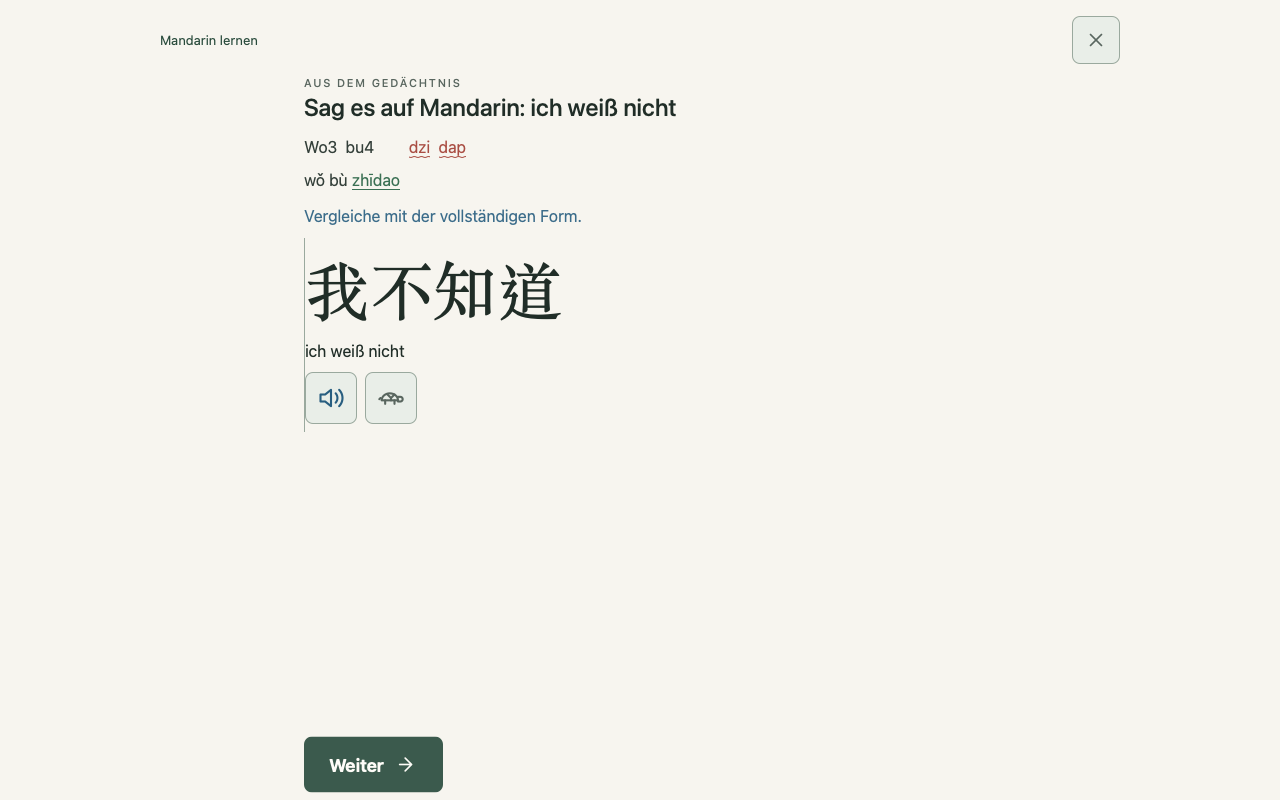
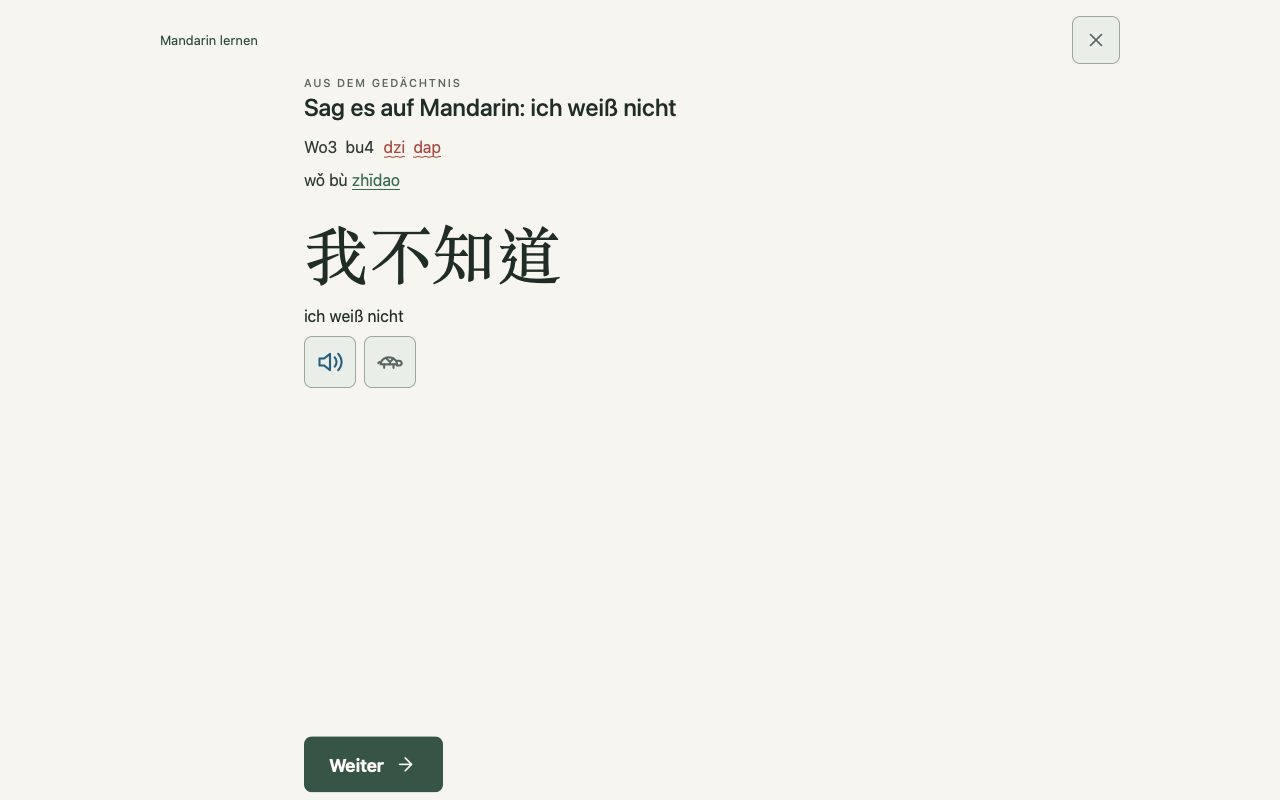
Remove excessive feedback spacing and redundant reference decoration

Changed region(s): [[0.2188, 0.25, 0.4375, 0.5312], [0.3125, 0.1562, 0.375, 0.2188]]

diff --git a/tests/browser/learning-v2.spec.ts b/tests/browser/learning-v2.spec.ts
@@ -23,6 +23,9 @@ for(const size of [{width:320,height:568},{width:390,height:844},{width:1280,hei
  await page.setViewportSize(size);await seed(page,'d-recall-dont-know');const before=await dock(page),text='  Wo3  bu4\t dzi  dap  ';await check(page,text);const after=await dock(page);expect(Math.abs(after.y-before.y)).toBeLessThanOrEqual(8);mkdirSync('work/mobile-v2/evidence',{recursive:true});writeFileSync(`work/mobile-v2/evidence/${info.project.name}-${size.width}.json`,JSON.stringify({viewport:size,before,after,movementPx:Math.abs(after.y-before.y),pageScroll:0},null,2));
  expect(await page.locator('[data-answer-text=original]').textContent()).toBe(text);expect(await page.locator('[data-answer-text=accepted]').textContent()).toBe(itemMap.get('dont-know')!.pinyin);expect(await page.locator('.correctionOriginal .correctionError').allTextContents()).toEqual(['dzi','dap']);expect(await page.locator('.correctionAccepted .correctionChange').allTextContents()).toEqual(['zhī','dao']);
  const textEdges=await page.locator('.correctionVersions').evaluate(root=>['original','accepted'].map(kind=>{const el=root.querySelector(`[data-answer-text=${kind}]`)!;const walker=document.createTreeWalker(el,NodeFilter.SHOW_TEXT);while(walker.nextNode()){const node=walker.currentNode as Text,index=node.textContent!.search(/\S/u);if(index<0)continue;const range=document.createRange();range.setStart(node,index);range.setEnd(node,index+1);return range.getBoundingClientRect().left;}throw new Error('No visible answer');}));expect(Math.abs(textEdges[0]-textEdges[1])).toBeLessThanOrEqual(.5);
+ const errorGap=await page.locator('[data-answer-text=original]').evaluate(el=>{const walker=document.createTreeWalker(el,NodeFilter.SHOW_TEXT);while(walker.nextNode()){const node=walker.currentNode as Text,index=node.textContent!.indexOf('bu4');if(index<0)continue;const range=document.createRange();range.setStart(node,index);range.setEnd(node,index+3);return el.querySelector('.correctionError')!.getBoundingClientRect().left-range.getBoundingClientRect().right;}throw new Error('Missing neutral anchor');});expect(errorGap).toBeLessThanOrEqual(12);
+ expect(await page.locator('.reference').evaluate(el=>getComputedStyle(el).borderLeftWidth)).toBe('0px');
+ await expect(page.locator('.feedbackAcknowledgement')).toHaveCount(0);
  await expect(page.locator('.productionFeedback del,.productionFeedback ins')).toHaveCount(0);await expect(page.locator('.productionFeedback')).not.toContainText('→');expect(await page.locator('.productionFeedback .controlLabel').count()).toBe(0);
  const saved=await tables(page);await page.screenshot({path:`/tmp/v2-${info.project.name}-feedback-${size.width}.png`});await page.reload();await page.getByRole('button',{name:'Weiterlernen',exact:true}).click();await expect(page.locator('[data-answer-text=original]')).toHaveText(text);await dock(page);const restored=await tables(page);expect(restored.relations).toEqual(saved.relations);expect(restored.sessions).toEqual(saved.sessions);expect(restored.events.filter((e:any)=>e.type==='attempt')).toEqual(saved.events.filter((e:any)=>e.type==='attempt'));
  const content=await page.locator('.viewportFlow').evaluate(e=>({h:e.clientHeight,scroll:e.scrollHeight}));expect(content.scroll).toBeLessThanOrEqual(content.h+1);

diff --git a/src/app/app.css b/src/app/app.css
@@ -380,7 +380,7 @@ button.phraseUnit { border-bottom: 1px dotted var(--line-strong); }button.phrase
 .viewportFlow .stepStack,.viewportFlow .speakingPractice,.viewportFlow .productionFeedback,.viewportFlow .responseWork,.viewportFlow .attentionIntroduction { gap: 10px; }
 .viewportFlow .speakingPractice { margin: 0; }
 .viewportFlow .responseWork { min-block-size: 0 !important; }
-.viewportFlow .reference,.viewportFlow .correctionReference,.viewportFlow .resolutionReference { margin: 0; padding: 8px 0; }
+.viewportFlow .reference,.viewportFlow .correctionReference,.viewportFlow .resolutionReference { margin: 0; padding: 8px 0; border-left: 0; }
 .viewportFlow .phraseForm,.viewportFlow .phraseUnits { margin: 0; }
 .viewportFlow .hanziHero,.viewportFlow .unitHanzi { font-size: clamp(2.5rem,10vw,4.5rem) !important; line-height: 1.2; }
 .viewportFlow .phraseForm { --text-hero: 4.5rem; }
@@ -420,7 +420,7 @@ button.phraseUnit { border-bottom: 1px dotted var(--line-strong); }button.phrase
 .viewportFlow input,.viewportFlow textarea { min-height: 44px; }
 .viewportFlow .hanziHero,.viewportFlow .unitHanzi { font-size: clamp(2rem,9vw,4rem) !important; }
 .viewportFlow .speakingPractice:has(.phraseForm) .practiceReference { min-height: 0; }
-.viewportFlow .correctionVersions { white-space: pre-wrap; overflow-wrap: anywhere; display: grid; gap: 8px; }
+.viewportFlow .correctionVersions { white-space: pre-wrap; tab-size: 1; overflow-wrap: anywhere; display: grid; gap: 8px; }
 .correctionOriginal,.correctionAccepted { margin: 0; }
 .correctionLeadingSpace { font-size: 0; line-height: 0; }
 .correctionError { color: #a23d32; text-decoration: underline wavy; text-decoration-thickness: 1px; text-underline-offset: 3px; }

diff --git a/src/languages/mandarin/components/ProductionFeedback.tsx b/src/languages/mandarin/components/ProductionFeedback.tsx
@@ -7,8 +7,9 @@ export function ProductionFeedback({input,item,assessment,legacyMessage,success=
  const finding=assessment?displayInterpretation(input,item,assessment):undefined;
  const comparison=correctionComparison(input,item,assessment),correct=success&&(!finding||finding.fullyCorrect)&&!comparison.originalRanges.length&&!comparison.acceptedRanges.length;
  const state=correct?'success':finding?.content==='correct'?finding.toneNotation==='omitted'?'addition':'tone':comparison.localized?'form':'comparison';
+ const explanation=correct?'':finding?.content==='correct'?finding.toneNotation==='omitted'?'Der Ausdruck stimmt; ergänze die Tonangaben.':'Der Ausdruck stimmt; die Tonangabe weicht ab.':finding?.construction==='incomplete'?'Ergänze den Ausdruck.':!assessment?legacyMessage:comparison.localized?'':'Vergleiche mit der vollständigen Form.';
  return <section className="productionFeedback" data-feedback-state={state} role="status" aria-label="Rückmeldung zur Eingabe">
   <CorrectionVersions {...comparison} accepted={correct?input:comparison.accepted}/>
-  {!correct&&<p className="feedbackAcknowledgement">{finding?.content==='correct'?finding.toneNotation==='omitted'?'Der Ausdruck stimmt; ergänze die Tonangaben.':'Der Ausdruck stimmt; die Tonangabe weicht ab.':finding?.construction==='incomplete'?'Ergänze den Ausdruck.':!assessment?legacyMessage:'Vergleiche mit der vollständigen Form.'}</p>}
+  {explanation&&<p className="feedbackAcknowledgement">{explanation}</p>}
  </section>;
 }

diff --git a/docs/mobile-v2/IMPLEMENTATION_RESULT.md b/docs/mobile-v2/IMPLEMENTATION_RESULT.md
@@ -19,6 +19,10 @@ Kein Merge, Main-Push oder Deployment. Der bei Arbeitsbeginn gelesene Remote-Mai
 
 Beide Zeilen teilen dieselbe linke sichtbare Textkante und Schriftgröße. Führende Leerzeichen bleiben in der Originalzeichenfolge und im kopierbaren DOM-Text erhalten, erzeugen aber keinen sichtbaren Einzug mehr; innere Abstände bleiben erhalten. Der Browsercheck misst die erste sichtbare Glyphe beider Zeilen auch bei führenden Leerzeichen. Tonzahlen und kanonische Tonzeichen beanspruchen weiterhin unterschiedliche Breiten. Es wurde keine künstliche Spaltenzuordnung ergänzt: Bei unklarer Zuordnung würde sie eine diagnostische Sicherheit suggerieren, die nicht vorliegt.
 
+Nachkorrektur der konkreten Ansicht: Der Tabulator im synthetischen Original wird mit einem statt acht Leerzeichen pro Tabstop dargestellt; die Originalzeichenfolge bleibt unverändert. Der gezielte Browsercheck begrenzt den Abstand vor dem roten Token auf 12 px für diese Testeingabe. Die alte linke Referenzlinie wurde im kompakten Lernbereich entfernt: Der dort entfallene Innenabstand hatte den Inhalt direkt an die Linie gesetzt. Funktionsbezogene Markierungen bei Schreiben und Tonwahl bleiben erhalten.
+
+Bei eindeutig markierten Formfehlern entfällt außerdem der redundante Satz „Vergleiche mit der vollständigen Form.“: Der direkte Vergleich und die folgende vollständige Referenz erfüllen diese Funktion bereits. Hinweise zu Tonnotation, Unvollständigkeit und unsicheren Vergleichen bleiben erhalten. Nach diesen konkreten Korrekturen bestanden acht gezielte Chrome-/WebKit-Fälle für 320/390/1280 px einschließlich Reload und unverändertem Ton-Fallback; die drei aktualisierten WebKit-Feedbackbilder wurden als zusammenhängende Ansichten visuell geprüft. Dies ist eine repräsentative Prüfung dieses Feedbackzustands, keine erneute allgemeine UX-QA.
+
 ## Evidenz- und Inhaltsgrenzen
 
 Matching schreibt weiterhin eigene Recognition-Ereignisse. Dialog schreibt eigene geführte Hör-/Bedeutungs-/Antwortwahl-Ereignisse, keine regulären Recall-Versuche und keine Relationsaufwertung. Das Restpaar und Versuche nach Fehlern sind keine unabhängige Evidenz. Zusätzliche Matching-Zeit wird nicht der danach wartenden regulären Aufgabe zugerechnet.
